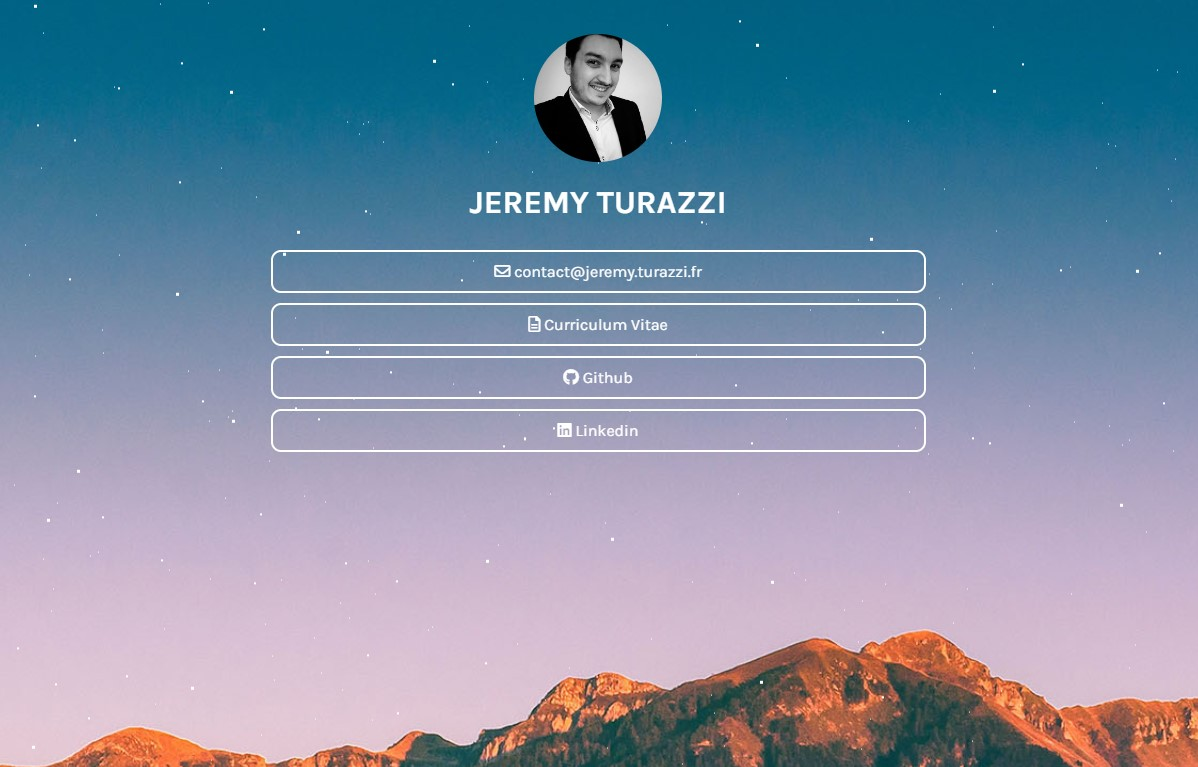
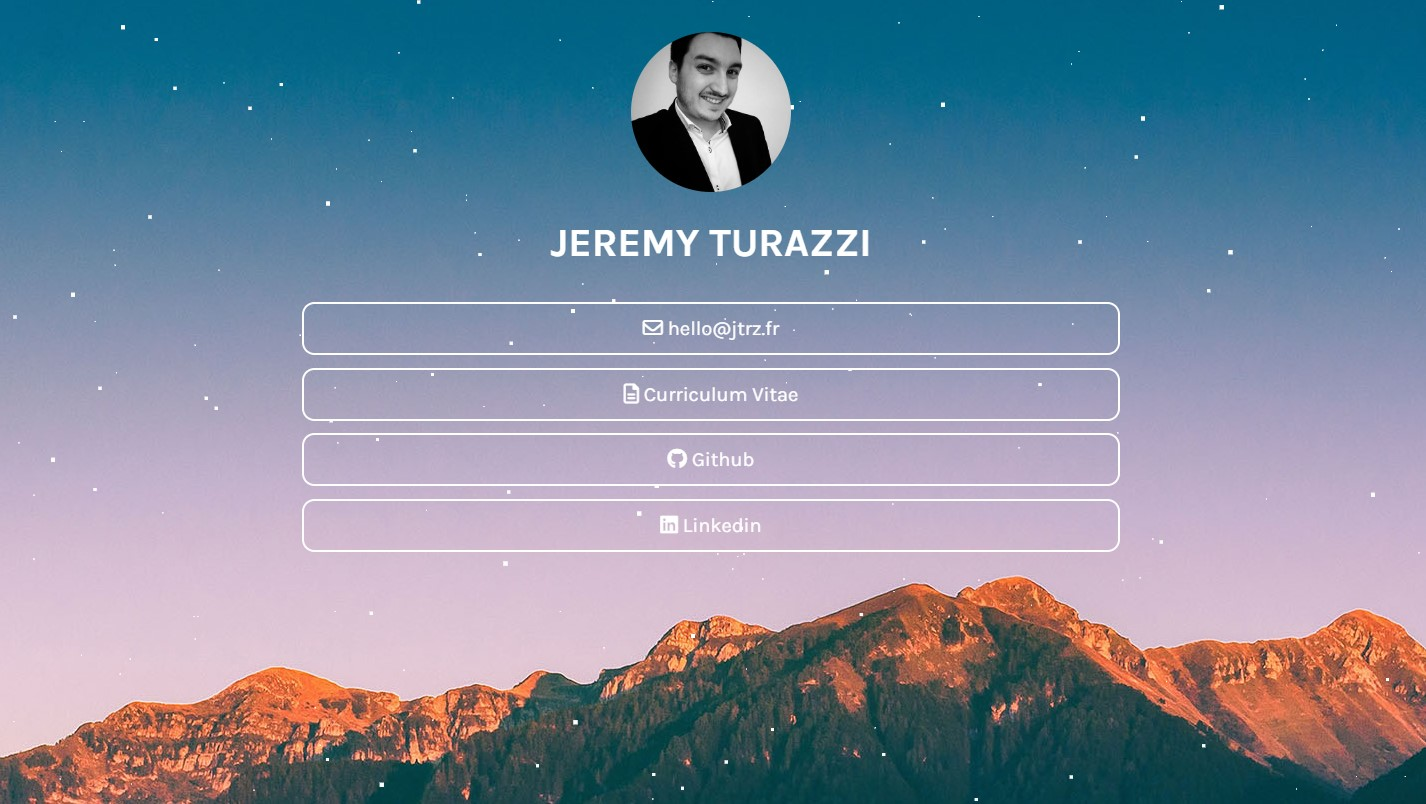
Update Links

diff --git a/index.html b/index.html
@@ -43,10 +43,10 @@
     </div>
     
     <div id="links">
-      <a class="link" href="mailto:contact@jeremy.turazzi.fr">
-        <i class="fa-regular fa-envelope">&nbsp;</i>contact@jeremy.turazzi.fr
-      </a>
-      <a class="link" href="https://cv.jeremy.turazzi.fr" target="_blank">
+      <a class="link" href="mailto:hello@jtrz.fr">
+        <i class="fa-regular fa-envelope">&nbsp;</i>hello@jtrz.fr
+      </a>                                          
+      <a class="link" href="https://cv.jtrz.fr" target="_blank">
         <i class="fa-regular fa-file-lines">&nbsp;</i>Curriculum Vitae
       </a>
       <a class="link" href="https://github.com/jturazzi" target="_blank">

diff --git a/README.md b/README.md
@@ -20,7 +20,7 @@ This is an open source project that serves as a free alternative to the Linktree
 
 This project is based on the repository by [John Emerson](https://github.com/johnggli).
 
-- [Demo](https://jeremy.turazzi.fr)
+- [Demo](https://jtrz.fr)
 
 ## 🚀 Getting started
 
@@ -36,4 +36,4 @@ git clone https://github.com/jturazzi/linktree
 
 ---
 
-Made with ❤ by Jérémy Turazzi :wave: [Get in touch](https://jeremy.turazzi.fr)
+Made with ❤ by Jérémy Turazzi :wave: [Get in touch](https://jtrz.fr)
